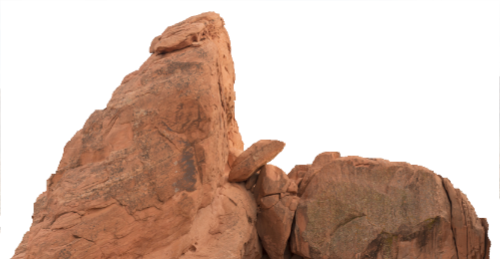
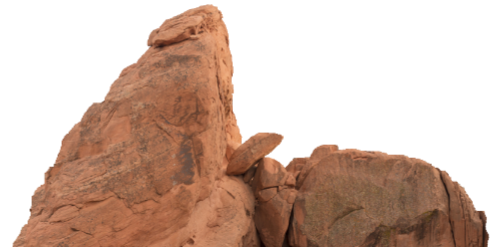
Scrolling des BG funktioniert

diff --git a/src/lvl.js b/src/lvl.js
@@ -3,6 +3,8 @@
 import ajax from './ajax.js';
 
 const lvl = {
+    // Aktiver Level
+    levelNum: 1,
     // Breite des Levels relativ zum Spielfeld
     width: 1,
 
@@ -13,41 +15,43 @@ const lvl = {
     imgs: {},
 
     // Level zeichnen
-    draw(scrollX) {
+    draw() {
+        this.ctxBG.clearRect(0, 0, this.cBG.width, this.cBG.height);
+
         this.bg.map(el => {
 
+            //console.log(el.x);
             let img = this.imgs[el.img];
             let h = this.cBG.height * el.height;
             let w = h / img.naturalHeight * img.naturalWidth;
+            let posX = (((this.cBG.width * this.width)) * el.x) - cBG.width / 2;
+            let posY = (this.cBG.height - h) * el.y;
 
-            console.log(
-                this.imgs[el.img],
-                cBG.width * el.x,
-                cBG.height - h,
-                w, h
-            );
+            // console.log(this.imgs[el.img], posX, posY, w, h);
+            // console.log(this.cBG.width, this.cBG.height);
 
-            this.ctxBG.drawImage(
-                this.imgs[el.img],
-                cBG.width * el.x,
-                cBG.height - h,
-                w, h
-            )
+            this.ctxBG.drawImage(this.imgs[el.img], posX, posY, w, h);
         })
     },
 
     // Übertragen der Leveldaten in die Datenstruktur
     process(data) {
+
         this.width = data.structure.width;
 
         this.imgs = {};
+        const eventsResolved = [];
         for (let key in data.imgs) {
             this.imgs[key] = document.createElement('img');
+            // erst, wenn alle Bilder geladen sind, soll diese Promisesammlung erfüllt sein
+            eventsResolved.push(new Promise(resolve => {
+                this.imgs[key].addEventListener('load', resolve)
+            }))
             this.imgs[key].src = `img/${data.imgs[key]}`;
         }
 
         this.bg = data.bg;
-        // console.log(lvl);
+        return Promise.all(eventsResolved);
     },
 
     // Laden der Leveldaten
@@ -58,15 +62,32 @@ const lvl = {
         )
     },
 
+    // Position der Elemente um ein Stückchen verschieben
+    scroll(scrollX) {
+        this.bg.forEach(el => {
+            el.x += scrollX;
+            el.x += (el.x < 0) ? 1 : 0;
+            el.x -= (el.x > 1) ? 1 : 0;
+        })
+        this.draw();
+    },
+
     init() {
         this.draw = this.draw.bind(this);
         this.process = this.process.bind(this);
+        this.scroll = this.scroll.bind(this);
 
         // Canvas für den Background
         this.cBG = document.querySelector('#cBG');
         this.ctxBG = this.cBG.getContext('2d');
-        this.load(1).then(
-            () => this.draw(0)
+
+        this.load(this.levelNum).then(
+            () => this.draw()
+        ).then(
+            //() => this.scroll()
+            () => this.scrollTimer = setInterval(this.scroll, 30, .002)
+        ).catch(
+            console.log
         )
     }
 }

diff --git a/src/canvas.js b/src/canvas.js
@@ -1,11 +1,13 @@
 'use strict';
 
 import dom, { $, $$ } from './dom.js';
+import lvl from './lvl.js';
 
 const canvas = {
     resize() {
-        this.cBG.width = window.innerWidth - 10;
-        this.cBG.height = window.innerHeight - 10;
+        this.cBG.width = window.innerWidth;
+        this.cBG.height = window.innerHeight;
+        //lvl.draw();
     },
     init() {
         this.cBG = $('#cBG');

diff --git a/src/styles.css b/src/styles.css
@@ -1,11 +1,19 @@
 canvas {
     position: fixed;
     display: block;
-    left: 5px;
-    top: 5px;
+    left: 0px;
+    top: 0px;
     /*
     right: 5px;
     bottom: 5px;
     */
-    background: #ccc;
+    background: #112;
+}
+
+preloader {
+    position: relative;
+    display: block;
+    left: 10px;
+    top: 10px;
+    z-index: 100;
 }

diff --git a/index.html b/index.html
@@ -13,6 +13,7 @@
 
 <body>
     <canvas id="cBG"></canvas>
+    <preloader></preloader>
 </body>
 
 </html>
